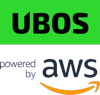
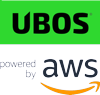
About ready for beta15...

diff --git a/jekyll/about/index.html b/jekyll/about/index.html
@@ -16,7 +16,7 @@ cannot take back control over their data on their own.</p>
 maintain a Linux server that runs common web applications and keeps data under control
 of the owner of the server. It's our vision that everybody should have an server in their
 home one day that stays independent of the big commercial and governmental overlords.
-And runs UBOS of course. We call such a server an "Indie Box".</p>
+And runs UBOS of course :-)</p>
 
 <p>For a comparison of UBOS to other distros, see <a href="#features">features</a> below.</p>
 
@@ -76,7 +76,7 @@ And runs UBOS of course. We call such a server an "Indie Box".</p>
  </li>
 
  <li>
-  <p>Systems that have two Ethernet interfaces can be turned into a <b>home router/gateway</b>
+  <p>Systems that have two or more Ethernet interfaces can be turned into a <b>home router/gateway</b>
      with a single command. In this "gateway" configuration, UBOS automatically sets up
      network masquerading, a firewall, a local DNS and DHCP server.</p>
 
@@ -114,7 +114,7 @@ And runs UBOS of course. We call such a server an "Indie Box".</p>
      Instead, we try to provide <b>as few packages as possible</b> by eliminating alternate
      packages that provide overlapping functionality. For example, we picked Apache over
      nginx (due to broader software support). To support the goals of UBOS, this has great
-     advantages: it makes testing much simpler, because UBOS has far less code, and far fewer
+     advantages: it makes testing simpler, because UBOS has far less code, and far fewer
      configurations need to be tested. This in turn makes application developers' lives
      easier and installations less brittle.</p>
 
@@ -130,8 +130,8 @@ And runs UBOS of course. We call such a server an "Indie Box".</p>
  </li>
 
  <li>
-  <p>UBOS itself is all <b>free/libre and open software</b>, so there's no proprietary lock-in
-     and you can keep us honest by reviewing our code.</p>
+  <p>UBOS itself is all <b>free/libre and open software</b> for individuals, so there's no
+     proprietary lock-in and you can keep us honest by reviewing our code.</p>
 
   <p>There is one exception: some hardware platforms, notably some versions of ARM,
      require &quot;blobs&quot; to function. (The Free Software Foundation provides a
@@ -143,7 +143,7 @@ And runs UBOS of course. We call such a server an "Indie Box".</p>
  </li>
 </ul>
 
-<h2><a name="arch"></a>Thank you, Arch Linux!</h2>
+<h2><a name="arch"></a>Thank you, Arch Linux, and Arch Linux ARM!</h2>
 
 <p>UBOS is a derivative of the <a href="http://archlinux.org/">Arch Linux</a> distro,
 and its ARM-based derivative <a href="http://archlinuxarm.org/">Arch Linux ARM</a>.

diff --git a/jekyll/index.html b/jekyll/index.html
@@ -14,8 +14,8 @@ div.banner {
 <div class="banner">
  <div style="float: left; width: 320px; display: inline; text-align: center">
   <img src="{{ "/images/ubos-160x160.png" | prepend: site.baseurl }}" alt="[UBOS]" style="margin: 34px 0 30px 0;"><br>
-  <a href="/blog/2018/04/28/ubos-beta14-available.html">
-   Beta 14 now available<br>
+  <a href="/blog/2018/08/20/ubos-beta15-available.html">
+   Beta 15 now available<br>
    for PCs, Raspberry Pi's,<br>
    ESPRESSObin and cloud
   </a>
@@ -83,8 +83,8 @@ span.news-meta {
   <form action="//indiecomputing.us7.list-manage.com/subscribe/post?u=876818b1a61be9d1134264f2e&amp;id=55dcbe96d9" method="post" id="mc-embedded-subscribe-form" name="mc-embedded-subscribe-form" class="validate" target="_blank" novalidate>
    <div id="mc_embed_signup_scroll">
     <div class="mc-field-group">
-     <label for="mce-EMAIL"><span class="label">Email:</span></label>
-     <input type="email" value="" name="EMAIL" class="required email" id="mce-EMAIL">&nbsp;*
+     <label for="mce-EMAIL"><span class="label">Email&nbsp;*:</span></label>
+     <input type="email" value="" name="EMAIL" class="required email" id="mce-EMAIL">
     </div>
     <div class="mc-field-group">
       <label for="mce-NAME"><span class="label">Your name:</span></label>
@@ -215,6 +215,7 @@ div.howto pre {
        Pi&nbsp;2, 3 (<a href="/docs/users/installation/raspberrypi2.html">SDCard</a>,
        <a href="/docs/users/installation/armv7h_container.html">container</a>)</li>
    <li>on a Marvell ESPRESSObin (<a href="/docs/users/installation/espressobin.html">SDCard</a>,
+       <a href="/docs/users/installation/espressobin.html#optional-boot-from-a-sata-disk-instead-of-an-sd-card">hard drive</a>,
        <a href="/docs/users/installation/aarch64_container.html">container</a>).</li>
   </ul>
  </div>

diff --git a/include/amazon-ec2-image-latest.js b/include/amazon-ec2-image-latest.js
@@ -4,7 +4,7 @@ var imageDiv   = document.createElement( 'div' );
 
 imageDiv.id        = 'ubos-amazon-ec2-image-latest';
 imageDiv.style     = 'text-align: center';
-imageDiv.innerHTML = '<a href="UBOS_AWS_IMAGE_URL" target="_blank"><img src="https://ubos.net/images/ubos-on-aws.png" alt="[EC2 image]" style="padding: 10px; border-radius: 5px; border: #a0a0a0 1px solid"/></a>';
+imageDiv.innerHTML = '<a href="UBOS_AWS_IMAGE_URL" target="_blank"><img src="https://ubos.net/images/ubos-on-aws-100x95.png" alt="[EC2 image]" style="padding: 10px; border-radius: 5px; border: #a0a0a0 1px solid"/></a>';
 
 parent.replaceChild( imageDiv, thisScript );
 

diff --git a/sphinx/_templates/frontpage.html b/sphinx/_templates/frontpage.html
@@ -3,7 +3,7 @@
 {% block body %}
  <div style="width: 720px; margin: 0 auto;">
   <h1 style="text-align: center; margin: 2em 0 0.2em 0; text-weight: bold">UBOS Documentation</h1>
-  <p style="text-align: center; margin-bottom: 0.5em">&mdash; Status: Beta 14 &mdash;</p>
+  <p style="text-align: center; margin-bottom: 0.5em">&mdash; Status: Beta 15 &mdash;</p>
 
   <table style="width: 100%; border-collapse: separate; border-spacing: 15px; border: 0">
    <tr>

diff --git a/jekyll/_includes/header.html b/jekyll/_includes/header.html
@@ -4,7 +4,7 @@
     <nav>
 {% unless page.isFrontPage %}
      <a href="{{ "/" | prepend: site.baseurl }}">
-      <img src="{{ "/images/ubos-logo-header.png" | prepend: site.baseurl }}" alt="[UBOS]">
+      <img src="{{ "/images/ubos-logo-header-70x22.png" | prepend: site.baseurl }}" alt="[UBOS]">
      </a>
 {% endunless %}
      <ul>

diff --git a/sphinx/themes/ubos/layout.html b/sphinx/themes/ubos/layout.html
@@ -37,7 +37,7 @@ if( location.hostname == 'ubos.net' ) {
    <header>
     <nav>
      <a href="/">
-      <img src="/images/ubos-logo-header.png" alt="[UBOS]">
+      <img src="/images/ubos-logo-header-70x22.png" alt="[UBOS]">
      </a>
      <ul>
       <li><a href="/quickstart/">Getting Started</a></li>

diff --git a/sphinx/releases/beta15/release-notes/index.rst b/sphinx/releases/beta15/release-notes/index.rst
@@ -1,0 +1,87 @@
+Beta 15 Release Notes
+=====================
+
+To upgrade
+----------
+
+To be safe, first create a backup of all your sites to a suitable file:
+
+* ``sudo ubos-admin backup --out ~/XXX.ubos-backup``
+
+If you do not have any sites on your device, to be safe, as root:
+
+* ``[[ -d /ubos/lib/ubos/ ]] || mkdir -p /ubos/lib/ubos/``
+
+Then, update your device:
+
+* ``sudo ubos-admin update -v``
+
+What's new: for users
+---------------------
+
+* Raspberry Pis can now boot UBOS from USB. This allows users to use a
+  more reliable disk medium than SD Cards. For supported models, please
+  consult `this post <https://www.raspberrypi.org/documentation/hardware/raspberrypi/bootmodes/msd.md>`_
+  by the Raspberry Pi Foundation.
+
+* The UBOS Staff now displays a nice HTML page with summary information
+  about the devices the Staff knows about. This is very handy to find out,
+  for example, a password automatically generated by UBOS during the
+  deployment of a new app.
+
+* Some computer enclosures have LEDs that can provide a visual status
+  indicator to the user, without having to use a monitor or log in over
+  the network. Specifically:
+
+  * The "Desktop Pi" enclosure for the Raspberry Pi
+
+  * Some of Intel's Next-Unit-of-Computing (NUC) devices
+
+  UBOS can now drive those LEDs, flashing them, for example, when an
+  administrative command is active.
+
+* ``ubos-admin start-pagekite`` makes it easy to run Pagekite on UBOS. Pagekite
+  is a combination of open-source software and paid service that securely routes traffic
+  from the public internet to a computer located behind a firewall. This enables
+  users host a public website on their UBOS device at home without having
+  to deal with dynamic DNS or port forwarding on their router.
+
+* The PHP opcache is now enabled by default, speeding up PHP applications
+  that have run for a while.
+
+* The default disk labels created by ``ubos-install`` have changed and have
+  no more spaces in them.
+
+* Nextcloud now knows how to use Redis as a cache.
+
+* The Nextcloud "markdown" app is now available, which allows users to write
+  markdown content in the browser, and instantly preview it.
+
+* As usual, lots of little improvements, bug fixes, and lots of package
+  upgrades.
+
+What's new: for developers
+--------------------------
+
+* Perl and Python 3 have gone through major package upgrades; libraries
+  in those languages need to be rebuilt with updated paths.
+
+* Java 10 is now in the repos.
+
+* ``php-systemd`` is now available to log to the system journal directly
+  from PHP applications.
+
+* Multi-phase deployment: AppConfigItems in apps can now be declared
+  as running after all accessories of the app have been deployed, as
+  opposed to before. This makes it possible to run start daemons,
+  for example, only once all accessories have been deployed. To do this,
+  mark an AppConfigItem with ``"phases" : [ "after-accessories" ]`` in
+  the UBOS manifest.
+
+* The new variable ``${appconfig.appconfigparsdir}`` resolves to the
+  directory in which customization point values are stored. This
+  makes it easier to access blob data, like images for example, that
+  were provided as customization points.
+
+* New functions ``uid`` and ``gid`` makes it easy to determine the
+  numeric UID and GID of named users.

diff --git a/sphinx/developers/manifest/roles.rst b/sphinx/developers/manifest/roles.rst
@@ -303,6 +303,45 @@ activated; if not, UBOS will activate it and restart Apache2.
 Note that the ``apache2`` role still needs to declare a dependency on ``php-gd``;
 ``apache2modules`` does not attempt to infer which packages might be needed.
 
+Phases
+^^^^^^
+
+When an :term:`AppConfiguration` with an :term:`App` and one ore more :term:`Accessories <Accessory>`
+is deployed, generally the :term:`AppConfigurationItems <AppConfigurationItem>` of the :term:`App` are
+deployed first, followed by the :term:`AppConfigurationItems <AppConfigurationItem>` of one
+:term:`Accessory` at a time in the sequence the :term:`Accessories <Accessory>` were defined in the
+:term:`Site JSON` file.
+
+Then, any installer or upgrader scripts are run in the sequence they were defined in the
+:term:`UBOS Manifest JSON`, with those defined by the :term:`App` before those defined by the
+:term:`Accessories <Accessory>`.
+
+Undeploying the :term:`AppConfiguration` occurs in the opposite sequence.
+
+However, sometimes it is necessary to deviate from this default sequence, in particular if
+the :term:`App` runs a daemon that requires that all :term:`Accessories <Accessory>` have been
+deployed already at the time it starts.
+
+For example, if an :term:`App` runs a Java daemon with :term:`Accessories <Accessory>` that
+contribute optional JARs, and the daemon only scans the available JARs at the time it first starts up,
+clearly the daemon can only start all :term:`Accessories <Accessory>` have been deployed.
+
+In order to support this (fairly rare) situation, the relevant :term:`AppConfigurationItem` (in
+the example, of type ``systemd-service`` that starts the daemon) can be marked with an extra
+entry:
+
+.. code-block:: json
+
+   "phases" : [
+     "after-accessories"
+   ]
+
+This will cause the :term:`AppConfigurationItem` to be skipped on the first pass when installing
+:term:`AppConfigurationItems <AppConfigurationItem>`, and only process it on a second pass that occurs
+after the :term:`Accessories <Accessory>` have all been deployed.
+
+No other values for ``phases`` are currently defined.
+
 Robots.txt contribution
 ^^^^^^^^^^^^^^^^^^^^^^^
 

diff --git a/jekyll/_posts/2018-08-20-ubos-beta15-available.md b/jekyll/_posts/2018-08-20-ubos-beta15-available.md
@@ -1,0 +1,27 @@
+---
+layout: post
+title:  "UBOS Beta 15: status LEDs, Pagekite and Staff improvements"
+date:   2018-08-20 21:00:00
+author: Johannes Ernst
+categories: front release beta
+---
+
+Two important conferences are coming up:
+
+* the <a href="https://nextcloud.com/conf/">Nextcloud conference</a> in Berlin,
+  Germany, from August 23 to 30, and
+* the <a href="https://mydata2018.org/">MyData.org conference</a> in Helsinki,
+  Finland, August 29-31.
+
+We'll be at both, and just in time, we are proud to release UBOS beta 15!
+
+Here are some highlights:
+
+* Boot your Raspberry Pi from USB, not just an SDCard
+* The UBOS Staff has learned a very convenient new trick
+* UBOS now drives the LEDs on Intel NUCs and the Desktop Pi enclosure for the Raspberry Pi
+* Access your device from the public internet through Pagekite integration
+
+For more info, read the detailed release notes <a href="/docs/releases/beta15/release-notes/">here</a>.
+
+As always, we love your <a href="/community/">feedback</a>.

diff --git a/sphinx/users/running-out-of-disk-space.rst b/sphinx/users/running-out-of-disk-space.rst
@@ -126,11 +126,7 @@ If you are starting from scratch:
 If you have Apps and data on your device already:
 ^^^^^^^^^^^^^^^^^^^^^^^^^^^^^^^^^^^^^^^^^^^^^^^^^
 
-If *and only if* you are currently on beta13, and about to upgrade to beta14, you can
-follow the same procedure as in "If you are starting from scratch" in the previous section,
-and then upgrade your device as described in the :doc:`release notes </releases/beta14/release-notes/index>`.
-
-In all other cases, it's a bit more involved:
+This takes the following steps:
 
 #. Boot your device.
 #. Backup all data on your device with ``ubos-admin backup`` and store the backup file on a

diff --git a/sphinx/releases/index.rst b/sphinx/releases/index.rst
@@ -6,6 +6,7 @@ The most recent release is first in this list:
 .. toctree::
    :maxdepth: 1
 
+   beta15/release-notes/index
    beta14/release-notes/index
    beta13/release-notes/index
    beta12/release-notes/index
